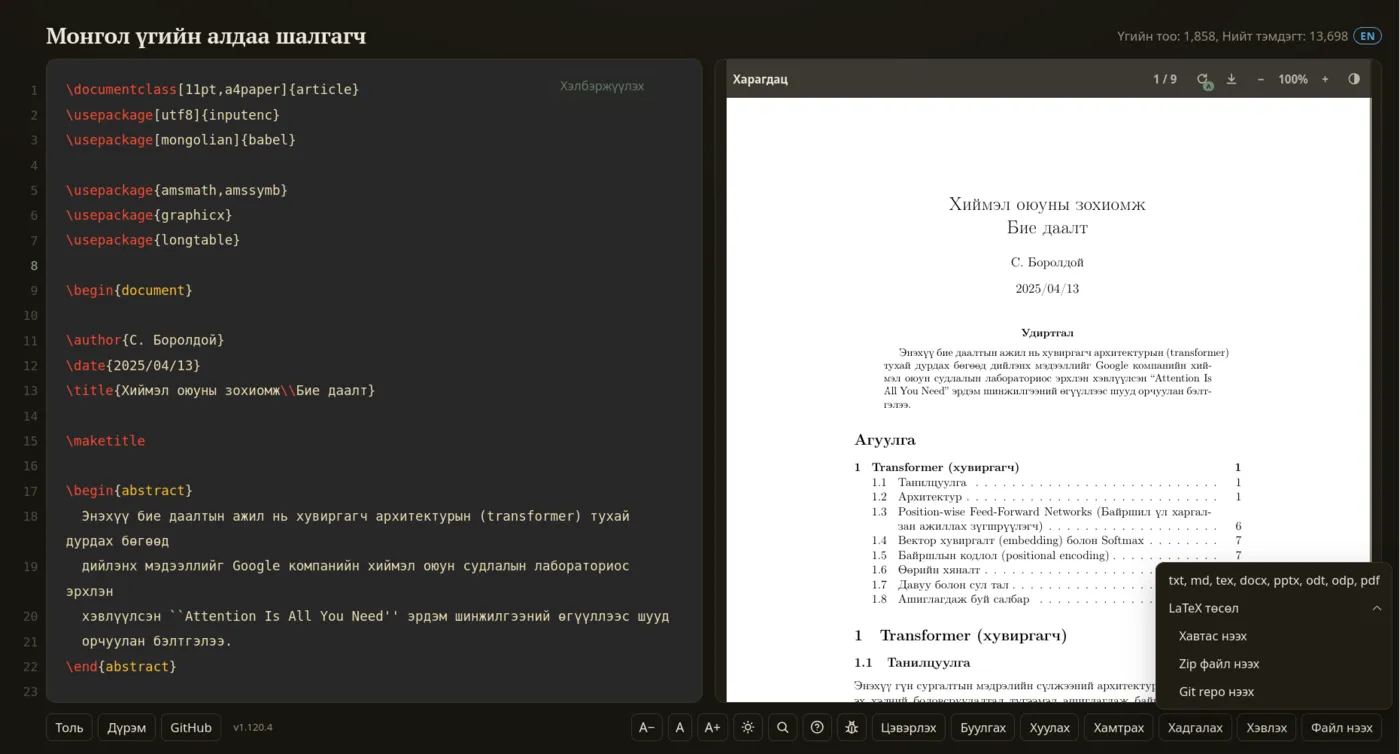
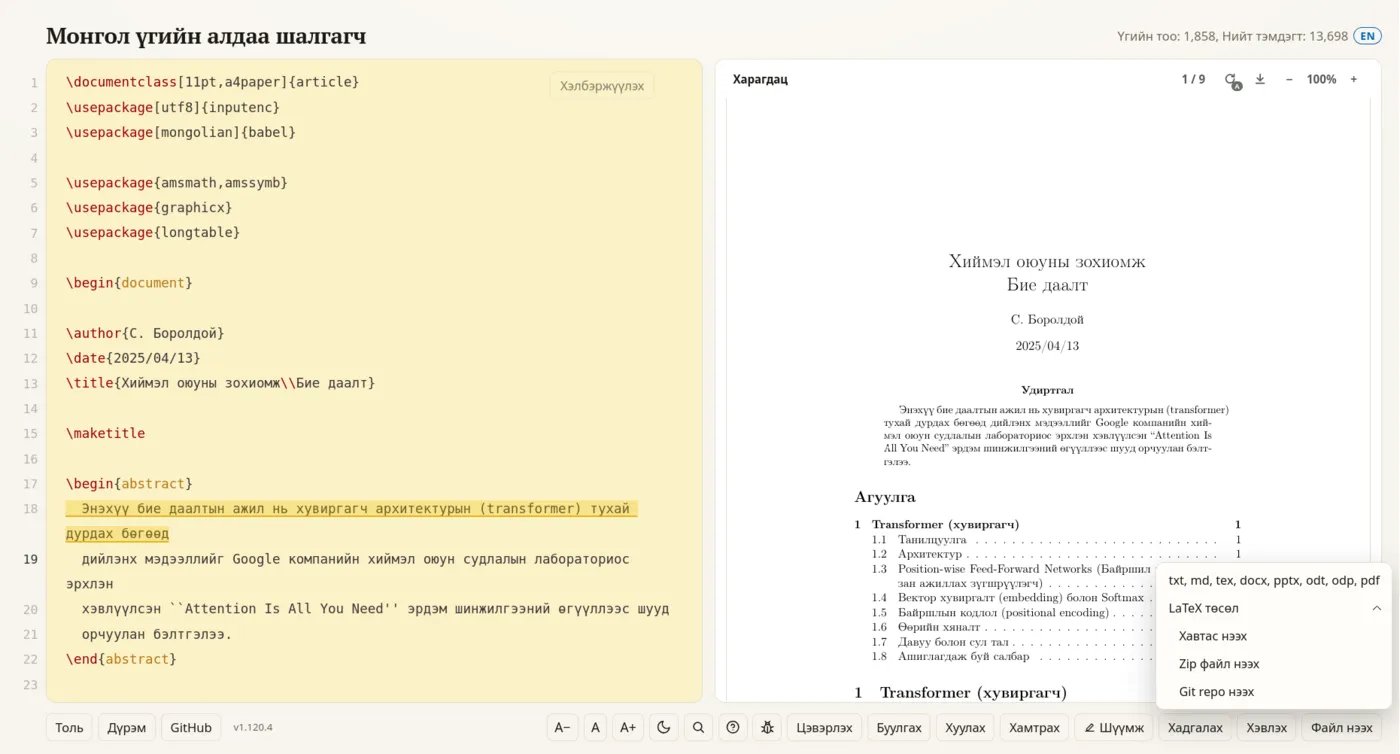
docs(help): switch LaTeX and article screenshots to the light theme

diff --git a/help/zaavar/tosol.md b/help/zaavar/tosol.md
@@ -44,9 +44,12 @@ description: Олон файлтай LaTeX төслийг хөтөч дээр н
 
 LaTeX файл нээхэд бичвэрийн талбарын дээр LaTeX-ийн хэрэгслийн мөр гарна. Бүлэг, үсгийн хэлбэр, жагсаалт, томьёо, зураг, хүснэгт, холбоос, товъёгийг командыг нь цээжлэхгүйгээр оруулна.
 
+**Бүлэг** цэснээс хэсэг, бүлэг, дэд бүлэг, хэсэг бүлэг, жижиг хэсэг, догол зэрэг гарчгийн түвшин болон баримтын гарчиг үүсгэх, агуулга, хураангуй, хавсралт, шинэ хуудсыг оруулна. Төсөлд ажиллах үед хэрэгслийн мөрийн эхэнд одоо нээлттэй файлын нэр харагдана.
+
+![LaTeX бүлгийн цэс](/zaavar/img/tosol-bulag.webp)
+
 **Орчин** цэснээс байршил (голлуулах, жижиг хуудас, зураг, хүснэгт, тайлбар), текст (ишлэл, шүлэг, хувиргахгүй), теорем (теорем, лемм, тодорхойлолт, жишээ, баталгаа) болон слайдын орчныг оруулна.
 
-![LaTeX орчны цэс](/zaavar/img/tosol-orchin.webp)
 
 **Томьёо** цэснээс тусдаа мөрөнд эсвэл дугаартай томьёо, тэгшилсэн томьёо, нөхцөлт илэрхийлэл, зэрэг, язгуур, нийлбэр, хязгаар, матриц болон вектор, малгай зэрэг тэмдэглэгээг оруулна. Тэмдэгтийн цэснээс грек үсэг, харьцаа, үйлдэл, сумыг сонгоно.
 

diff --git a/help/zagvar/ugulel.md b/help/zagvar/ugulel.md
@@ -21,7 +21,9 @@ description: LaTeX судалгааны өгүүллийн бэлэн загва
 1. Томьёо, жагсаалт, хүснэгт, зураг.
 1. Ном зүй.
 
-![Жишээ өгүүллийн томьёо ба жагсаалт](/zaavar/img/ugulel-tomyo.webp)
+Зургийг `figure` орчинд `\includegraphics`-ээр оруулж, `\caption`-ээр тайлбар, `\cite`-ээр эх сурвалжийг заана. Зураг автоматаар дугаарлагдана.
+
+![Жишээ өгүүллийн зураг ба тайлбар](/zaavar/img/ugulel-zurag.webp)
 
 ## Хөрвүүлэх
 
